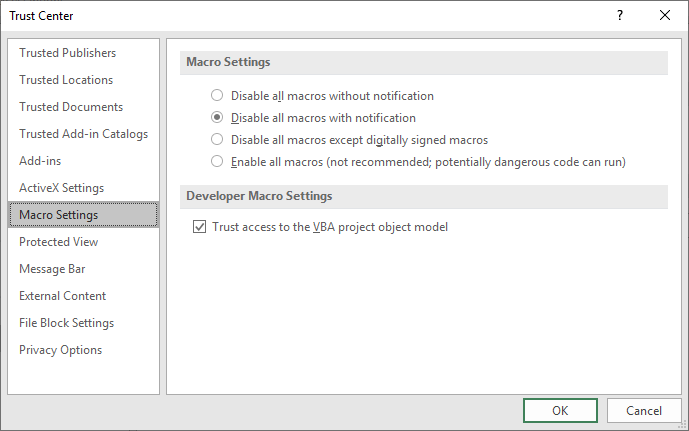
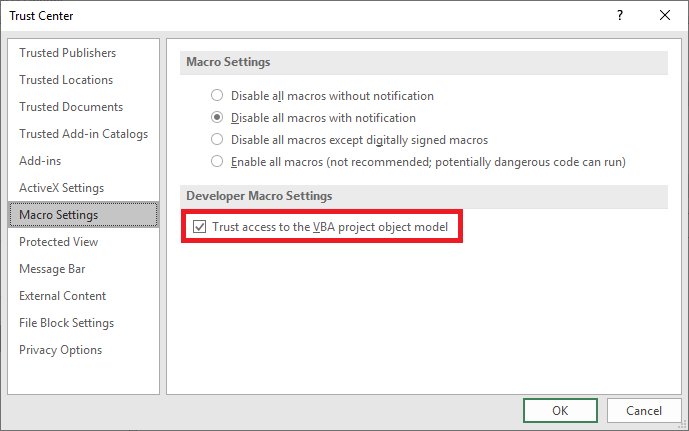
Updated Office-Python module

Changed region(s): [[0.2438, 0.4826, 0.6705, 0.5731]]

diff --git a/Access and Manipulate Office Apps with Python/includes/4-perform-sentiment-analysis-in-excel-jdp.md b/Access and Manipulate Office Apps with Python/includes/4-perform-sentiment-analysis-in-excel-jdp.md
@@ -4,15 +4,37 @@ Imagine that you're a software developer at an Internet vacation-rentals firm an
 
 Scoring text for sentiment is rather easily accomplished today with machine learning. Python has a number of world-class libraries available for building and training machine-learning models, including [Scikit-learn](https://scikit-learn.org/stable/index.html). Excel supports [User-Defined Functions](https://support.office.com/en-ie/article/create-custom-functions-in-excel-2f06c10b-3622-40d6-a1b2-b6748ae8231f), which enable users to write custom functions that are called just like `SUM()` and `AVG()` and other functions built into Excel. But UDFs are written [Visual Basic for Applications](https://en.wikipedia.org/wiki/Visual_Basic_for_Applications). in order to use Scikit-learn in Excel, you need to be able to write UDFs in Python.
 
-Fortunately, there are libraries that let you do just that. One of them is [Xlwings](https://www.xlwings.org/), an open-source library that combines the power of Excel with the versatility of Python. With it, you can write Python code that loads or creates Excel spreadsheets and manipulates their content, write Python macros triggered by button clicks in Excel, access Excel spreadsheets from Jupyter notebooks, and more. You can also use Xlwings to write Excel UDFs
+Fortunately, there are libraries that let you do just that. One of them is [Xlwings](https://www.xlwings.org/), an open-source library that combines the power of Excel with the versatility of Python. With it, you can write Python code that loads or creates Excel spreadsheets and manipulates their content, write Python macros triggered by button clicks in Excel, access Excel spreadsheets from Jupyter notebooks, and more. You can also use Xlwings to write UDFs for Excel for Windows.
 
 ## Install Xlwings
 
-The first step in building the spreadsheet that Communications wants is installing **Xlwings** and other Python packages such as **Scikit-learn**.
+The first step in building the spreadsheet that Communications wants is configuring Excel to trust VBA add-ins and installing **Xlwings** and and **Scikit-learn**.
 
+1. Open Microsoft Excel and use the **File -> Options** command to open Excel's "Excel Options" dialog. Click **Trust Center** in the menu on the left, and then click the **Trust Center Settings...** button. Click **Macro Settings** on the left, and check the "Trust access to the VBA project object model" box as shown below. Then click **OK** to dismiss the "Trust Center" dialog, followed by **OK** to dismiss the "Excel Options" dialog.
 
+	![Configuring Excel to trust VBA add-ins](media/trust-vba.png)
 
+	_Configuring Excel to trust VBA add-ins_
 
+1. At a command prompt, use the following command to install **Scikit-learn** and its dependencies:
+
+	```bash
+	pip install numpy scipy scikit-learn==0.20.3
+	```
+
+	You are installing a specific version of Scikit because your UDF will utilize a saved machine-learning model, and that model was saved with **Scikit-learn** 0.20.3 Generally speaking, a model saved with one version of **Scikit-learn** should be loaded with the same version.
+
+1. Now use the following command to install Xlwings:
+
+	```bash
+	pip install xlwings
+	```
+
+1. Once the installation is complete, you need to install the Xlwings add-in to Excel. Here's the command for doing that:
+
+	```
+	xlwings addin install
+	```
 
 
 
